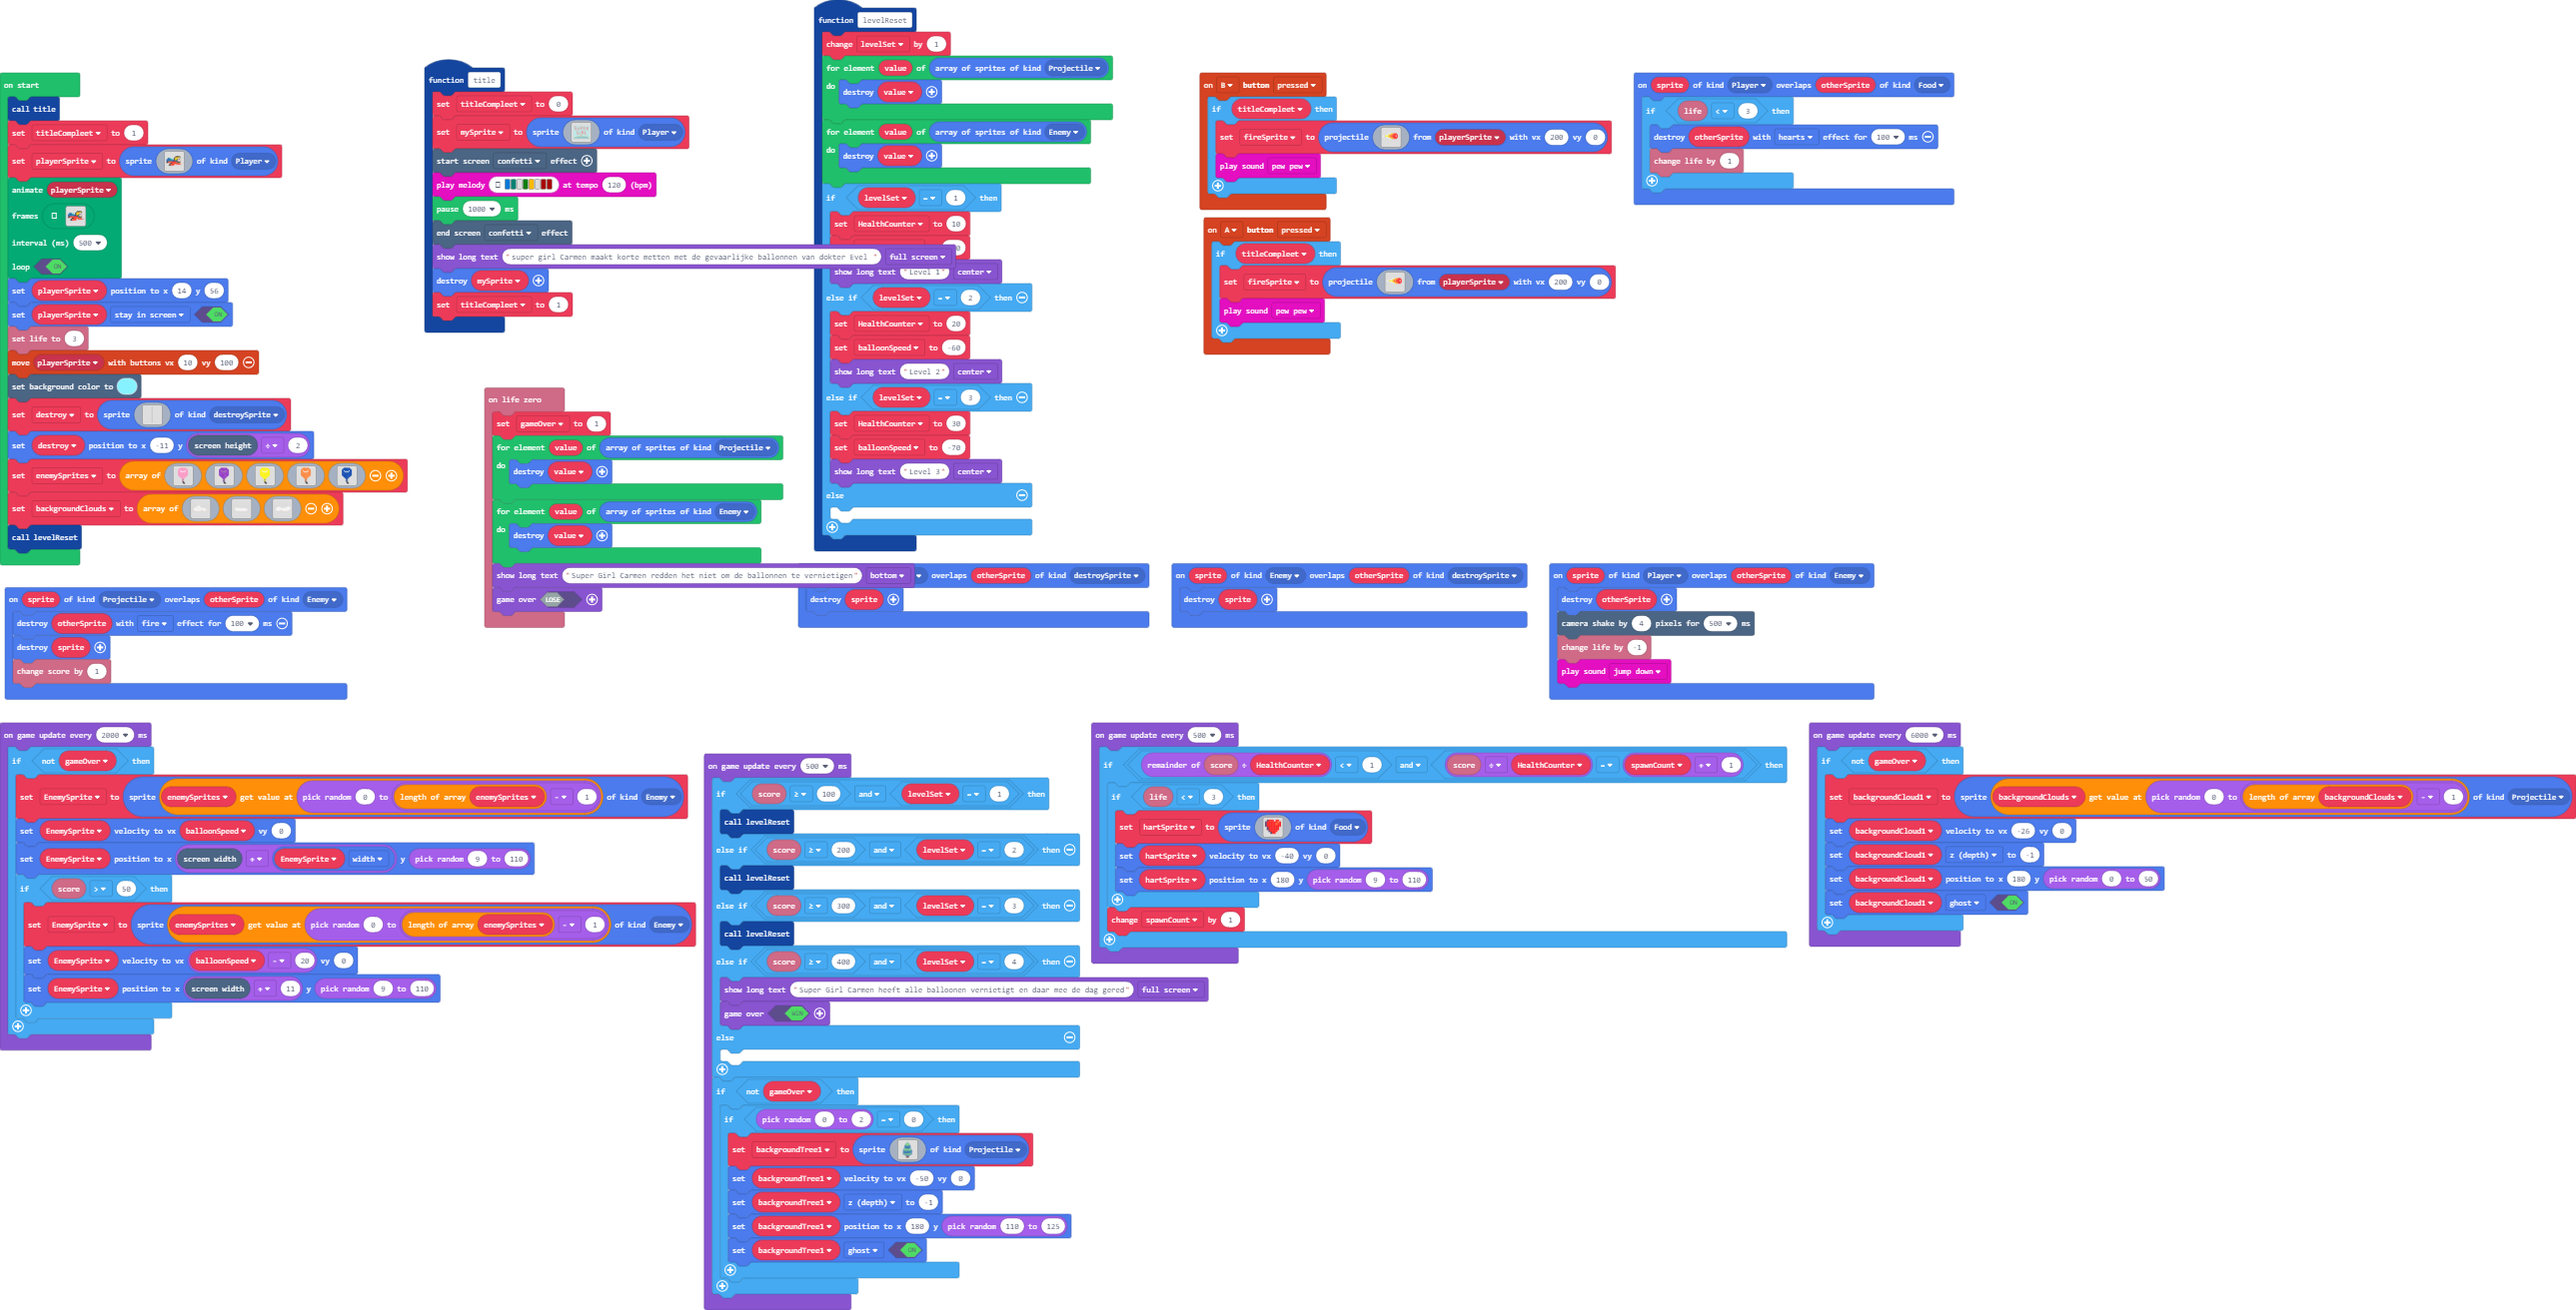
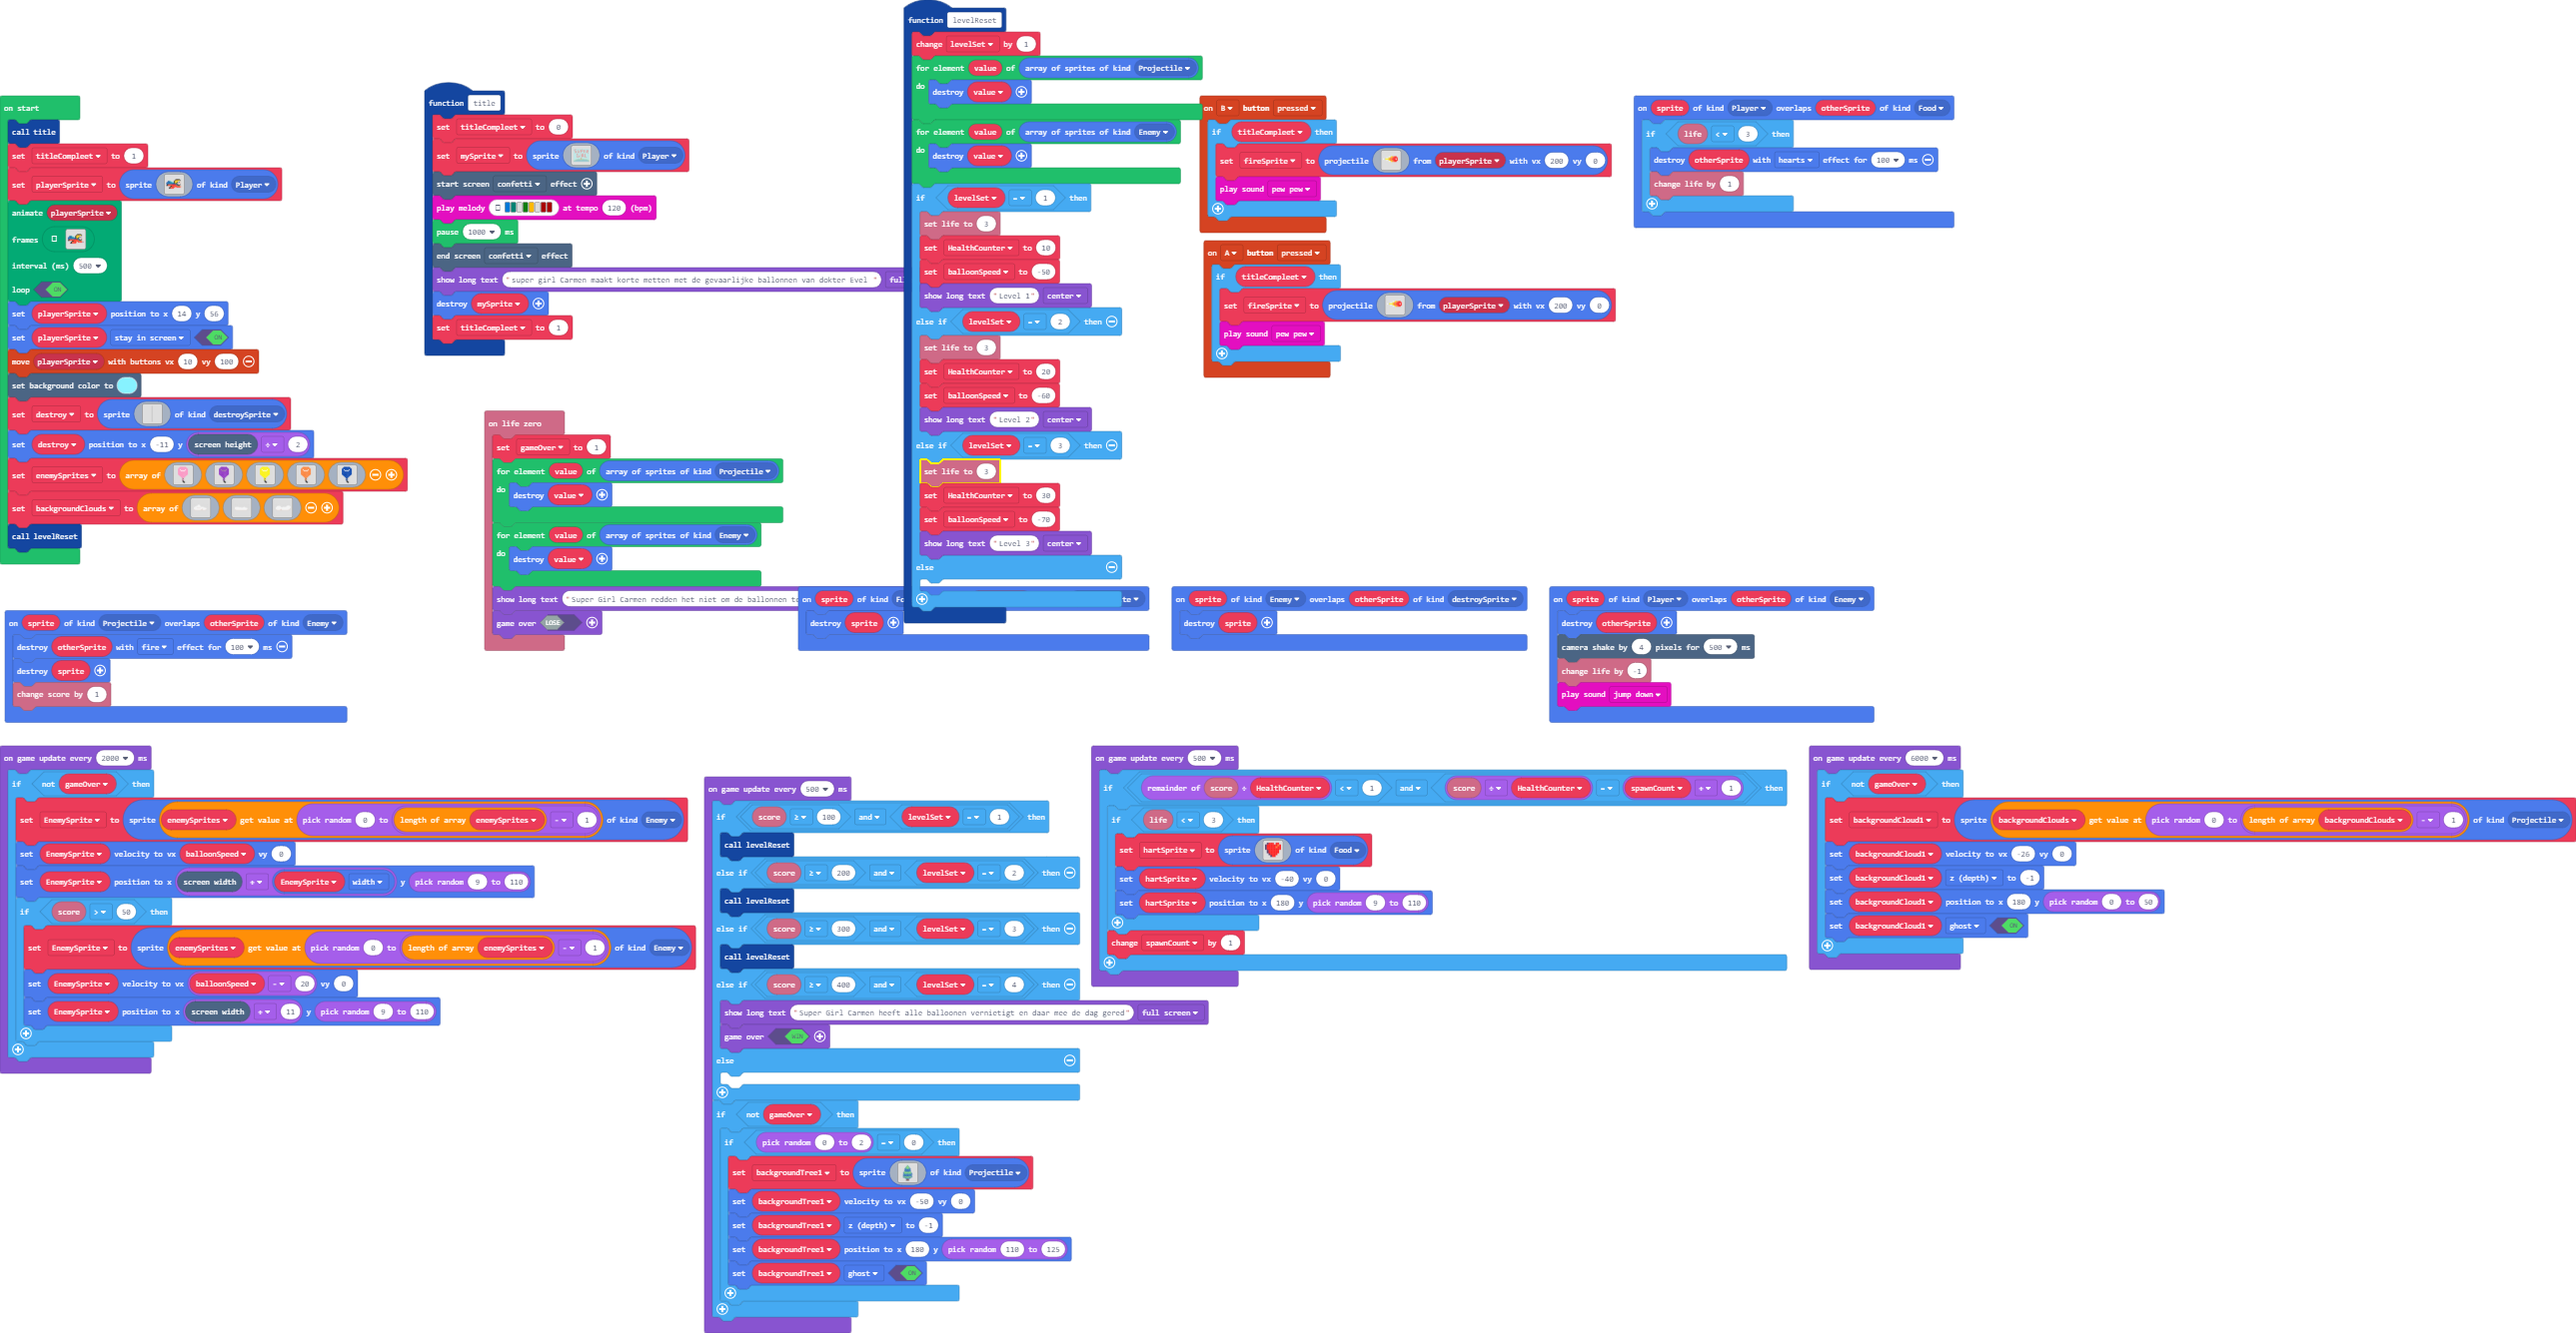
setting lives at level

Changed region(s): [[0.0, 0.0, 1.0, 0.9688]]

diff --git a/main.ts b/main.ts
@@ -202,14 +202,17 @@ function levelReset () {
         value.destroy()
     }
     if (levelSet == 1) {
+        info.setLife(3)
         HealthCounter = 10
         balloonSpeed = -50
         game.showLongText("Level 1", DialogLayout.Center)
     } else if (levelSet == 2) {
+        info.setLife(3)
         HealthCounter = 20
         balloonSpeed = -60
         game.showLongText("Level 2", DialogLayout.Center)
     } else if (levelSet == 3) {
+        info.setLife(3)
         HealthCounter = 30
         balloonSpeed = -70
         game.showLongText("Level 3", DialogLayout.Center)
@@ -288,7 +291,6 @@ true
 )
 playerSprite.setPosition(14, 56)
 playerSprite.setFlag(SpriteFlag.StayInScreen, true)
-info.setLife(3)
 controller.moveSprite(playerSprite, 10, 100)
 scene.setBackgroundColor(9)
 let destroy = sprites.create(img`
